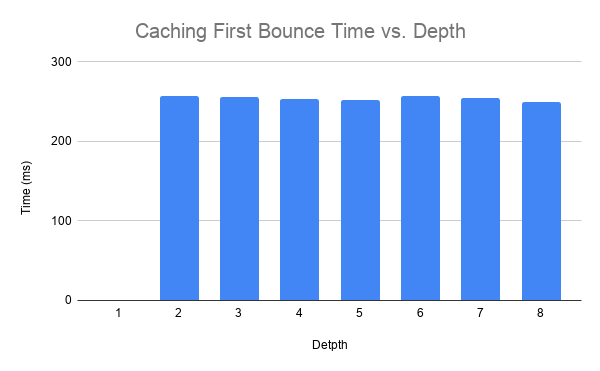
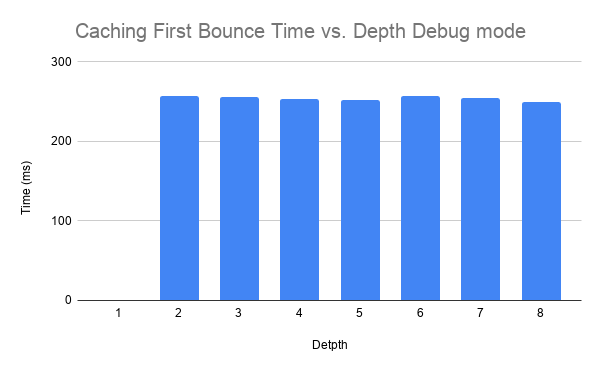
more work on sub surface scattering but not going well

Changed region(s): [[0.12, 0.0593, 0.87, 0.1186]]

diff --git a/src/interactions.h b/src/interactions.h
@@ -4,11 +4,29 @@
 
 #define REFRACTION
 //#define IMPORTANCE_SAMPLING
+#define SSS
 
 
+// for calculating probability distribution over a uniform sampled hemisphere
 __host__ __device__ float get_pdf(glm::vec3 ray, glm::vec3 normal)
 {
 	return dot(ray, normal) * (1 / PI);
+}
+
+// check if we refract through or get stuck in the medium
+__host__ __device__ bool check_if_in_material(glm::vec3 new_ray_dir, glm::vec3 intersect, glm::dmat3x2 space, float seed, float* distance)
+{
+	*distance = -logf(seed) * .2f;
+	//printf("distance %f \n", *distance);
+	glm::vec3 origin = (intersect + (.01f * new_ray_dir)) * (*distance);
+	
+	// x in dmat is the positive direction y is negativee
+	if ((origin.x <= space[0].x && origin.x >= space[0].y) && (origin.y <= space[1].x && origin.y >= space[1].y) && (origin.z <= space[2].x && origin.z >= space[2].y))
+	{
+		//printf("im in the material!\n");
+		return true;
+	}
+	return false;
 }
 // CHECKITOUT
 /**
@@ -84,7 +102,7 @@ __host__ __device__ glm::vec3 compute_reflection(PathSegment& path, glm::vec3 no
 	return color;
 }
 
-__host__ __device__ glm::vec3 compute_refraction(PathSegment& path, glm::vec3 normal, float t,const Material& m, thrust::default_random_engine &rng,float* pdf)
+__host__ __device__ glm::vec3 compute_refraction(PathSegment& path, glm::vec3 normal, glm::vec3 intersect, glm::dmat3x2 space,const Material& m, thrust::default_random_engine &rng,float* pdf,float* distance)
 {
 	thrust::uniform_real_distribution<float> u01(0, 1);
 	glm::vec3 old_ray_direction = path.ray.direction;
@@ -95,19 +113,48 @@ __host__ __device__ glm::vec3 compute_refraction(PathSegment& path, glm::vec3 no
 	
 	//// notes from https://www.scratchapixel.com/lessons/3d-basic-rendering/introduction-to-shading/reflection-refraction-fresnel
 	//// for refraction we have some corner cases we need to handle.
-	// //Specular Refraction/Transmission
-	float n1 = 1; // Air
+	// such as TIR. we can also add sub surface scattering here
+	float n1 = 1; // keep track of what medium the ray is in. if we scatter in the material we will be in the medium else we will be air //1; // Air
 	float n2 = m.indexOfRefraction;
 
-	 //Determine which is incident and which is transmitted
-	 //by looking at direction of neg normal.
-	 //Vectors are facing same direction if dot product is positive
-	bool leaving = glm::dot(old_ray_direction, normal) > 0;
-	if (leaving) {
+#ifdef SSS
+	//// if we are scattering we don't need to refract we just bounce around inside the object
+	if (path.ray.scattering)
+	{
+		//printf("scattering \n");
+		// get the new direction may have to change normal?
+		new_ray_direction = calculateRandomDirectionInHemisphere(normal, rng);
+		// are we still scattering?
+		path.ray.scattering = check_if_in_material(glm::normalize(new_ray_direction), intersect, space, u01(rng), distance);
+
+		// mainly for debugging
+		if (path.ray.scattering)
+		{
+			path.ray.scatter_depth++;
+			if (path.ray.scatter_depth > 5) {
+				printf("s dpeth %d \n", path.ray.scatter_depth);
+			}
+		}
+		else
+		{
+			path.ray.scatter_depth=0;
+		}
+
+		color = m.specular.color;
+		path.ray.direction = glm::normalize(new_ray_direction);
+		return color;
+	}
+#endif
+
+	 // determine if we are leaving the medium or entering the medium
+	bool entering = glm::dot(old_ray_direction, -normal) < 0;
+	if (entering) {
+		// we are entering the medium we are bouncing in and scattering or going completely through
 		new_normal = -normal;
 		eta = n2 / n1;
 	}
 	else {
+		// leaving the medium just a regular bounce back
 		new_normal = normal;
 		eta = n1 / n2;
 	}
@@ -131,12 +178,13 @@ __host__ __device__ glm::vec3 compute_refraction(PathSegment& path, glm::vec3 no
 	// just using api's ... theory is commented out above
 	new_ray_direction = glm::refract(old_ray_direction, new_normal, eta);
 
+	// total internal reflection
 	if(glm::length(new_ray_direction) < EPSILON)
 	{
 		new_ray_direction = glm::reflect(old_ray_direction, new_normal);
 		color = m.specular.color;
 	}
-	
+	// based off of how much refractivity we have we can do a refractive bounce or just a random one
 	else 
 	{
 		// not sure why this does not work ...
@@ -145,21 +193,38 @@ __host__ __device__ glm::vec3 compute_refraction(PathSegment& path, glm::vec3 no
 		//new_ray_direction = glm::refract(old_ray_direction, normal, eta);
 		// finally refract
 		//new_ray_direction = (eta * old_ray_direction) + (((eta * cos_theta1) - cos_theta2) * normal); // cos theta1 and normal must be positive ... this is guaranteed by statemetns above
-		float rand = u01(rng);
+		
+		// if we are scattering through bounce randomly and modify our distance
+		//if (scattering)
+		//{
+		//	// mark our ior as the material
+		//	path.ray.ior = m.indexOfRefraction;
+		//}
+		//else{
+			// mark our ior as outside or air
+			//path.ray.ior = 1;
 
-		if (rand < m.hasRefractive) {
-			// based off of our surface normal and ray direction we want to reflect the path
-			// https://glm.g-truc.net/0.9.4/api/a00131.html#gabe1fa0bef5f854242eb70ce56e5a7d03
-			// let refract handle it since my algorithm does not seem to work
-			//new_ray_direction = glm::refract(old_ray_direction, normal, eta);
-			color = m.specular.color;
-		}
-		else
-		{
-			float cos_theta;
-			new_ray_direction = calculateRandomDirectionInHemisphere(normal, rng);
-			color = m.color;
-		}
+			// if we have high refractivity refract, else randomly bounce
+			float rand = u01(rng);
+			if (rand < m.hasRefractive) 
+			{
+				// maybe we can scatter in?
+					//assert(0);
+					// did we enter?
+#ifdef SSS
+				//if(rand > .5)
+					path.ray.scattering = check_if_in_material(new_ray_direction, intersect, space, u01(rng), distance);
+
+#endif
+				// accumulate specular color
+				color = m.specular.color;
+			}
+			else
+			{
+				// accumulate diffuse color and bounce radnomly
+		 		new_ray_direction = calculateRandomDirectionInHemisphere(normal, rng);
+				color = m.color;
+			}
 	}
 
 #ifdef IMPORTANCE_SAMPLING
@@ -273,7 +338,7 @@ __host__ __device__ float fresnels(glm::vec3 normal, glm::vec3 old_ray_direction
 // based off of fresenels equation we follow the route of reflection or refraction
 // resources: https://computergraphics.stackexchange.com/questions/2482/choosing-reflection-or-refraction-in-path-tracing
 // https://www.scratchapixel.com/lessons/3d-basic-rendering/introduction-to-shading/reflection-refraction-fresnel
-__host__ __device__ glm::vec3 compute_fresnels(PathSegment& path, glm::vec3 normal, float t, const Material& m, thrust::default_random_engine &rng,float* pdf)
+__host__ __device__ glm::vec3 compute_fresnels(PathSegment& path, glm::vec3 normal, glm::vec3 intersect, glm::dmat3x2 space, float t, const Material& m, thrust::default_random_engine &rng,float* pdf,float* distance)
 {
 	glm::vec3 color;
 	thrust::uniform_real_distribution<float> u01(0, 1);
@@ -286,7 +351,7 @@ __host__ __device__ glm::vec3 compute_fresnels(PathSegment& path, glm::vec3 norm
 	// the lower the fresnels number the less reflective
 	if (Fresnels_Number < rand )
 	{
-		color = compute_refraction(path, normal, t, m,rng,pdf);
+		color = compute_refraction(path, normal, intersect,space, m,rng,pdf,distance);
 		Fresnels_Number = 1 - Fresnels_Number;
 	}
 	else
@@ -331,7 +396,7 @@ void scatterRay(
         const Material &m,
 		float t,
         thrust::default_random_engine &rng,
-		glm::vec3 speed) {
+		glm::dmat3x2 space ) {
     // TODO: implement this.
     // A basic implementation of pure-diffuse shading will just call the
     // calculateRandomDirectionInHemisphere defined above.
@@ -339,17 +404,18 @@ void scatterRay(
 	// is diffuse is reflective is refractive. is opaque? etc etc
 	glm::vec3 color;
 	float pdf = 0;
+	float distance = 1;
 
 #ifdef REFRACTION
 	//  
 	if (m.hasReflective > 0.0f && m.hasRefractive > 0.0f)
 	{
-		color = compute_fresnels(pathSegment, normal, t, m,rng,&pdf);
+		color = compute_fresnels(pathSegment, normal,intersect,space, t, m,rng,&pdf,&distance);
 	}
 	//if refractive
 	else if (m.hasRefractive > 0.0f)
 	{
-		color = compute_refraction(pathSegment, normal, t, m, rng, &pdf);
+		color = compute_refraction(pathSegment, normal, intersect,space, m, rng, &pdf, &distance);
 	}
 #endif
 
@@ -363,7 +429,7 @@ void scatterRay(
 		color = compute_diffuse(pathSegment, normal, t, m, rng,&pdf);
 	}
 
-	pathSegment.ray.origin = intersect + (.01f * pathSegment.ray.direction);
+	pathSegment.ray.origin = (intersect + (.01f * pathSegment.ray.direction) ) * distance;
 
 #ifdef IMPORTANCE_SAMPLING
 	color = color * (1 / PI) * glm::dot(pathSegment.ray.direction, normal) / pdf;

diff --git a/src/scene.cpp b/src/scene.cpp
@@ -86,6 +86,16 @@ int Scene::loadGeom(string objectid) {
                 newGeom.translation, newGeom.rotation, newGeom.scale);
         newGeom.inverseTransform = glm::inverse(newGeom.transform);
         newGeom.invTranspose = glm::inverseTranspose(newGeom.transform);
+		
+		float x = newGeom.translation.x + newGeom.scale.x;
+		float x2 = newGeom.translation.x - newGeom.scale.x;
+		float y = newGeom.translation.y + newGeom.scale.y;
+		float y2 = newGeom.translation.y - newGeom.scale.y;
+		float z = newGeom.translation.z + newGeom.scale.z;
+		float z2  = newGeom.translation.z - newGeom.scale.z;
+
+		// whats the space that is this object occuppies
+		newGeom.space = { x,x2,y,y2,z,z2 };
 
         geoms.push_back(newGeom);
         return 1;

diff --git a/src/sceneStructs.h b/src/sceneStructs.h
@@ -15,7 +15,8 @@ enum GeomType {
 struct Ray {
     glm::vec3 origin;
     glm::vec3 direction;
-	float rand_time;
+	int scatter_depth;
+	bool scattering;
 };
 
 struct Geom {
@@ -28,6 +29,7 @@ struct Geom {
     glm::mat4 inverseTransform;
     glm::mat4 invTranspose;
 	glm::vec3 speed;
+	glm::dmat3x2 space;
 };
 
 struct Material {
@@ -66,7 +68,6 @@ struct PathSegment {
 	glm::vec3 color;
 	int pixelIndex;
 	int remainingBounces;
-	int depth;
 };
 
 // Use with a corresponding PathSegment to do:
@@ -76,5 +77,5 @@ struct ShadeableIntersection {
   float t;
   glm::vec3 surfaceNormal;
   int materialId;
-  glm::vec3 speed;
+  glm::dmat3x2 space;
 };

diff --git a/src/main.cpp b/src/main.cpp
@@ -65,7 +65,9 @@ int main(int argc, char** argv) {
         return 1;
     }
 
-	_loadModel();
+
+
+	//_loadModel();
 
     const char *sceneFile = argv[1];
 

diff --git a/README.md b/README.md
@@ -8,6 +8,10 @@ CUDA Path Tracer
   
 * Tested on: Windows 10, i5, Nvidia GTX1660 (Personal)
 
+## Intro to path tracing
+
+what is it
+
 ## Some nicer renders
 
 ![](img/nice_render.PNG)
@@ -22,6 +26,13 @@ The below charts are gathered from the scene shown above. In this scene we have 
 
 The above chart shows the speed up or slow down associated with enabling each algorithm/technique. We see that in general, material sorting adds too much overhead to see any benefits that may be associated. We see caching helps improve performance as we get to make one less call to our function "compute intersections" and we see that stream compaction helps improve performance by quite a bit because we get to remove some dead rays from the scene and do less work each depth calculation. The rest of the features are essentially free as they are not adding many instructions or complexity to the system.
 
+![](img/1_loop_r.png)
+
+![](img/raw_1_loop.png)
+
+
+The above chart shows the speed up or slow down associated with enabling each algorithm/technique for release mode. We see a slightly different story with this as caching stream compaction and material sorting all add overhead to the system. This to me was interesting. I am not sure how some of the code changes to tell this part of the picture.
+
 more information below for each algorithm in the algorithm analysis. 
 
 ## Algorith Analysis
@@ -30,17 +41,21 @@ more information below for each algorithm in the algorithm analysis.
 
 ![](img/Material_Sorting.png)
 
+![](img/Material_Sorting_r.png)
+
 The idea behind material sorting is that we sort our rays by material. All rays with Material ID 1 are contiguous with each other in memory. This can help to reduce thread divergence. If all threads in a warp are computing based off a certain material we would expect that they would mostly behave the same way. For example, all threads with a specular material are all going to reflect. 
 
 In my runs there was not any speedup seen from this. I tried several other runs with more materials and objects in the scene to see if my scene was not complex enough but again saw no real advantage.
 
 I suspect if I added texture mapping or more complex materials the algorithms and branch divergence would be more severe and this is when I would see a benefit.
 
-The chart above shows us how long it takes to actually sort our material. So, each run we add about 100ms to our computation time but do not see a benefit of greater than 100ms. So, our material sorting overhead does not outweigh any beneifts that we may see from creating contiguous material memory and reducing thread divergence.
+The chart above shows us how long it takes to actually sort our material. So, each run in debug mode we add about 100ms to our computation time but do not see a benefit of greater than 100ms. So, our material sorting overhead does not outweigh any beneifts that we may see from creating contiguous material memory and reducing thread divergence. This is een in both debug and release mode.
 
 ### First Bounce Caching
 
 ![](img/Caching.png)
+
+![](img/caching_r.png)
 
 The idea behind first bounce caching is to reduce repetitive computations. Our compute intersections call takes around 250ms and for larger more complex scenes could take longer. Caching allows us to skip the first one.
 
@@ -50,10 +65,14 @@ As we allow more bounces or depth to the scene the benefit of this technique wil
 
 The chart above shows us that with a depth of 1 we do not spend any time computing intersections since we just reuse. The time to copy from this information from CPU to GPU was about .25ms compared to computing the intersection which costed us around 250ms.
 
+In release mode we see no benefit fro mcaching on the cpu side. This can mean that the time spent copying data from the cpu to the gpu is equivalent to the time it takes to execute the function "compute_intersections"
+
 
 ### Stream Compaction 
 
 ![](img/Stream_Compaction.png)
+
+![](img/Stream_Compaction_r.png)
 
 The idea behind stream compaction is to remove dead rays ( rays that are no longer bouncing ) from the scene. Dead rays are either rays that have hit a light object, have exited the scene or make no contribution to the scene. 
 
@@ -64,6 +83,8 @@ To remedy this we use stream compaction. After every bounce we can remove the ra
 This technique sees a significant speedup in performance.
 
 The above chart shows us the time spent doing our sorting we can see almost an exponential decay in time spent as depth increases.
+
+We see this expoenetial decay in both release and debug mode.
 
 ### Anti-aliasing
 
